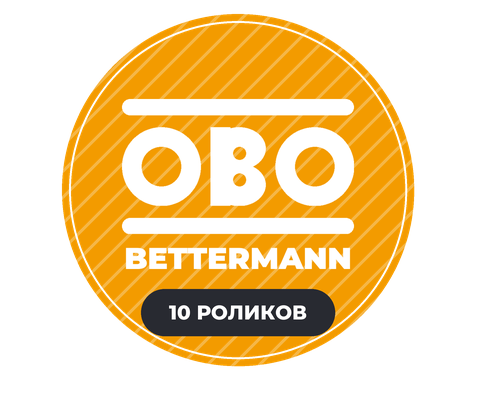
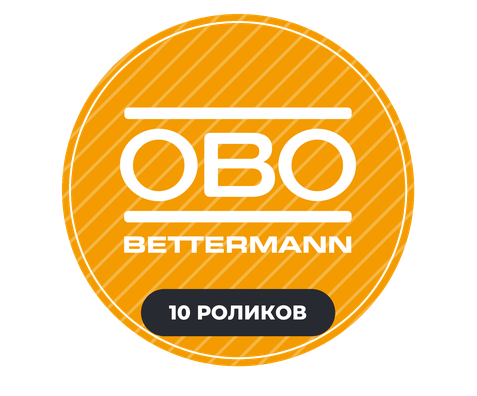
Кейс OBO: официальный логотип из исходника клиента (SVG) везде
Заменяет самодельную реконструкцию логотипа официальным вектором OBO Bettermann
(scripts/assets/obo-logo.svg). Варианты logo-{white,color,ink}.svg в mirror/images/obo
(страница подключала logo-white.svg/logo-color.svg, но файлы не были закоммичены —
на проде отдавалась 404, логотип не читался). Обложки каталога перерисованы с
официальным логотипом. Удалена реконструкция obo_logo.py и старые растровые лого.

Changed region(s): [[0.2348, 0.2424, 0.7631, 0.697]]

diff --git a/scripts/gen-obo-covers.py b/scripts/gen-obo-covers.py
@@ -7,13 +7,20 @@
 - cover-hover: оранжевый ПРЯМОУГОЛЬНИК того же цвета — фоновое эхо «OBO»,
   заголовок «Серия продуктовых роликов», «СМОТРЕТЬ КЕЙС →».
 Кладёт в mirror/images/lib/custom-obo-academy/ (webp — через scripts/gen-webp.sh)."""
-import os, math, importlib.util
+import os
 from PIL import Image, ImageDraw, ImageFont
 
 HERE = os.path.dirname(os.path.abspath(__file__))
 ROOT = os.path.abspath(os.path.join(HERE, '..'))
-spec = importlib.util.spec_from_file_location("obo_logo", os.path.join(HERE, "obo_logo.py"))
-ol = importlib.util.module_from_spec(spec); spec.loader.exec_module(ol)
+# ОФИЦИАЛЬНЫЙ логотип (белый, растеризован из исходника движком браузера — build-вход)
+LOGO_WHITE = os.path.join(HERE, 'assets', 'logo-white.png')
+
+
+def logo(target_w):
+    lg = Image.open(LOGO_WHITE).convert('RGBA')
+    h = max(1, round(target_w * lg.height / lg.width))
+    return lg.resize((target_w, h), Image.LANCZOS)
+
 
 W, H = 477, 396
 CX, CY, R = 238, 190, 176
@@ -65,9 +72,9 @@ def cover_main():
     # тонкое внутреннее кольцо
     d.ellipse([cx - r + 7 * S, cy - r + 7 * S, cx + r - 7 * S, cy + r - 7 * S],
               outline=WHITE + (60,), width=2 * S)
-    # логотип OBO по центру
-    logo = ol.make_logo(int(232 * S), WHITE + (255,))
-    img.alpha_composite(logo, (cx - logo.width // 2, cy - logo.height // 2 - int(6 * S)))
+    # официальный логотип OBO по центру (белый)
+    lg = logo(int(236 * S))
+    img.alpha_composite(lg, (cx - lg.width // 2, cy - lg.height // 2 - int(10 * S)))
     # метрика «10 роликов» — тёмная пилюля у низа круга
     d2 = d
     ptxt = '10 РОЛИКОВ'
@@ -93,9 +100,9 @@ def cover_hover():
     eb = d.textbbox((0, 0), 'OBO', font=ef)
     d.text((W * S - (eb[2] - eb[0]) - int(30 * S) - eb[0], H * S - (eb[3] - eb[1]) - int(6 * S) - eb[1]),
            'OBO', font=ef, fill=ORANGE_D + (255,))
-    # маленький тёмный логотип сверху
-    logo = ol.make_logo(int(120 * S), INK + (255,))
-    img.alpha_composite(logo, (int(34 * S), int(26 * S)))
+    # официальный логотип сверху (белый — на оранжевом читается корректно)
+    lg = logo(int(132 * S))
+    img.alpha_composite(lg, (int(34 * S), int(26 * S)))
     # заголовок
     hf = font(int(44 * S), 'ExtraBold')
     lines = ['Серия', 'продуктовых', 'роликов']
@@ -112,10 +119,4 @@ def cover_hover():
 if __name__ == '__main__':
     cover_main().save(os.path.join(OUT, 'cover-main.png'))
     cover_hover().save(os.path.join(OUT, 'cover-hover.png'))
-    # отдельные логотипы для страницы (прозрачный фон)
-    imgdir = os.path.join(ROOT, 'mirror', 'images', 'obo')
-    os.makedirs(imgdir, exist_ok=True)
-    ol.make_logo(900, WHITE + (255,)).save(os.path.join(imgdir, 'logo-white.png'))
-    ol.make_logo(900, ORANGE + (255,)).save(os.path.join(imgdir, 'logo-orange.png'))
-    ol.make_logo(900, INK + (255,)).save(os.path.join(imgdir, 'logo-ink.png'))
-    print('written', OUT, '+ logos')
+    print('written', OUT)

diff --git a/scripts/a2/gen_obo_academy.py b/scripts/a2/gen_obo_academy.py
@@ -9,7 +9,8 @@
 (дисплей, инженерный гротеск), Onest (текст), JetBrains Mono (тех-метаданные: №,
 тайм-коды, категории). Ролики — как пронумерованный каталог из 3 глав (I/II/III),
 каждая — фичер + ряд, БЕЗ единой карточной сетки. Мотив «Building Connections» —
-прочерченная линия-трасса (SVG, анимация). Реальный логотип OBO (obo_logo.py).
+прочерченная линия-трасса (SVG, анимация). Официальный логотип OBO — SVG-исходник
+клиента (scripts/assets/obo-logo.svg → mirror/images/obo/logo-{white,color}.svg).
 
 Видео — самохостинг /media/obo-*.mp4 (заливка ВРУЧНУЮ, вне CI, см. VIDEO-UPLOAD.md),
 постеры /images/obo/poster-*.jpg. Правки — ТОЛЬКО через этот скрипт; build_v1
@@ -347,7 +348,7 @@ def hero():
       '<circle cx="760" cy="510" r="7"/><circle cx="1080" cy="340" r="7"/></svg>'
       '<div class="obo-w obo-hero__in">'
       '<div class="obo-hero__top">'
-      f'<img class="obo-hero__logo" src="{IMG}/logo-white.png" alt="OBO Bettermann">'
+      f'<img class="obo-hero__logo" src="{IMG}/logo-white.svg" alt="OBO Bettermann">'
       '<span class="obo-hero__slogan">Building Connections</span></div>'
       '<p class="obo-mono obo-anim" style="animation-delay:.05s;color:#5a3d05">'
       'Видеопродакшн · Академия OBO Bettermann</p>'
@@ -380,7 +381,7 @@ def company():
     return (
       '<section class="obo-about"><div class="obo-w">'
       '<div class="obo-about__card obo-r">'
-      f'<div class="obo-about__brand"><img class="obo-about__logo" src="{IMG}/logo-ink.png" '
+      f'<div class="obo-about__brand"><img class="obo-about__logo" src="{IMG}/logo-color.svg" '
       'alt="OBO Bettermann"><span class="obo-about__slogan">Building Connections</span>'
       f'<div class="obo-about__cats">{cats}</div></div>'
       '<div class="obo-about__body"><span class="obo-mono">Клиент проекта</span>'

diff --git a/scripts/obo-logo-render.py b/scripts/obo-logo-render.py
@@ -1,0 +1,33 @@
+#!/usr/bin/env python3
+"""Из ОФИЦИАЛЬНОГО вектора логотипа OBO Bettermann (scripts/assets/obo-logo.svg —
+оригинал прислан клиентом; OBO оранжевый #F39B00, BETTERMANN контуры #1A171B)
+пишет цветовые SVG-варианты в mirror/images/obo/ для использования на странице
+через <img src=".svg"> (идеально чётко, без растеризации):
+  logo-color.svg — оригинал (оранж OBO + чёрный BETTERMANN) — для светлого фона
+  logo-white.svg — весь белый — для оранжевого/тёмного фона
+  logo-ink.svg   — весь графит #282a31
+
+PNG-растр нужен только обложкам каталога (PIL): logo-white.png растеризуется
+из logo-white.svg движком браузера (canvas.toDataURL) — на этой машине нет
+libcairo/renderPM. Готовый PNG лежит в репозитории; пере-растеризация — вручную
+через локальный превью-сервер (см. memory obo-academy-case)."""
+import os
+
+HERE = os.path.dirname(os.path.abspath(__file__))
+ROOT = os.path.abspath(os.path.join(HERE, '..'))
+SRC = os.path.join(HERE, 'assets', 'obo-logo.svg')
+OUT = os.path.join(ROOT, 'mirror', 'images', 'obo')
+os.makedirs(OUT, exist_ok=True)
+
+src = open(SRC, encoding='utf-8').read()
+VARIANTS = {
+    'color': src,
+    'white': src.replace('#F39B00', '#FFFFFF').replace('#1A171B', '#FFFFFF'),
+    'ink':   src.replace('#F39B00', '#282A31').replace('#1A171B', '#282A31'),
+}
+
+if __name__ == '__main__':
+    for name, svg in VARIANTS.items():
+        p = os.path.join(OUT, f'logo-{name}.svg')
+        open(p, 'w', encoding='utf-8').write(svg)
+        print('written', p)
